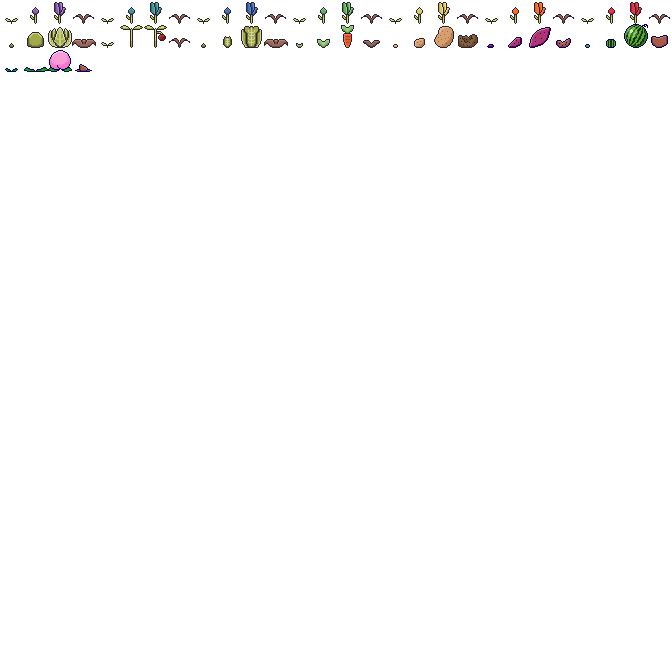
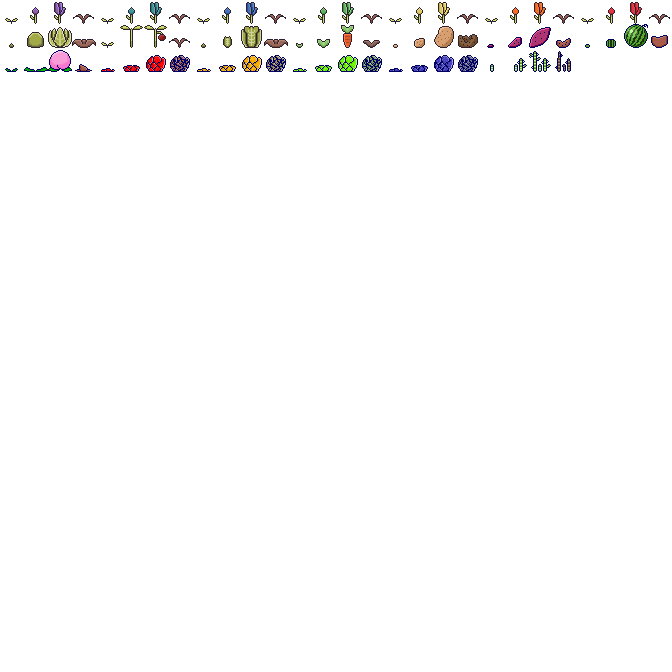
add new plants and finalize craftable furniture

diff --git a/src/App.js b/src/App.js
@@ -1145,6 +1145,8 @@ let App = {
                 z: furniture.z || App.constants.BACKGROUND_Z + 0.1,
                 def: furniture,
                 onDraw: (me) => {
+                    furnitureDef.onDraw?.(me);
+
                     if(lastY === me.y) return;
                     lastY = me.y;
                     me.z = App.constants.BACKGROUND_Z + 
@@ -2796,7 +2798,7 @@ let App = {
                 }
 
                 // some entries become randomly unavailable to buy for the day
-                if(++index && buyMode && !random(0, 1, dayId + (index * 256))){
+                if(++index && buyMode && !random(0, 1, (dayId * 365) + (index * 25600))){
                     continue;
                 }
 
@@ -3247,27 +3249,39 @@ let App = {
         },
         open_craftables_list: function(){
             let sliderInstance;
-            const {room_background: roomBackgroundDefs} = App.definitions;
+            const {
+                room_background: roomBackgroundDefs, 
+                accessories: accessoryDefs
+            } = App.definitions;
 
             const removeOneHarvestFromInventory = (name) => {
                 if(App.pet.inventory.harvests[name] > 0)
                     App.pet.inventory.harvests[name] -= 1;
             }
 
-            const getCraftableUIDef = (current, type) => ({
+            const getCraftableUIDef = (current, type, owned) => ({
                 isNew: !!current.isNew,
                 name: `
                     <img style="min-height: 64px" src="${App.checkResourceOverride(current.image)}"></img> 
                     ${current.name.toUpperCase()} 
                     <small>${type}</small>
-                    <div class="flex-center flex-dir-row"> ${App.getHarvestIcons(current.craftingRecipe, undefined, 'opacity-third')} </div> 
+                    <b class="flex-center flex-dir-row">
+                    ${
+                        owned ? 'OWNED'
+                            : App.getHarvestIcons(current.craftingRecipe, undefined, 'opacity-third')
+                    }
+                    </b> 
                     ${current.isNew ? App.getBadge() : ''}
                 `,
                 onclick: () => {
+                    if(owned) return App.displayPopup(`You already own the this ${type}!`);
+
                     const hasAllIngredients = current.craftingRecipe.every(ingredientName => App.pet.inventory.harvests[ingredientName]);
                     if(!hasAllIngredients) return App.displayPopup(`You cannot craft this ${type} due to missing ingredients`);
 
                     current.craftingRecipe.forEach(ingredient => removeOneHarvestFromInventory(ingredient));
+
+                    App.displayPopup(`Crafted x1 <b>${current.name}</b>!`);
 
                     switch(type){
                         case "room":
@@ -3276,7 +3290,11 @@ let App = {
                             App.scene.home.image = App.checkResourceOverride(current.image);
                             break;
                         case "furniture":
-                            // todo: implement
+                            App.ownedFurniture.push({
+                                id: current.id,
+                                x: '50%', y: '50%',
+                                isActive: false
+                            })
                             break;
                     }
                 }
@@ -3291,7 +3309,13 @@ let App = {
             // furniture
             const furniture = App.definitions.furniture
                 .filter(item => item.isCraftable)
-                .map(current => getCraftableUIDef(current, 'furniture'))
+                .map(current => getCraftableUIDef(current, 'furniture', !!App.ownedFurniture.find(f => f.id === current.id)))
+
+            // accessories
+            const accessories = Object.keys(accessoryDefs)
+                .map(name => ({...accessoryDefs[name], name}))
+                .filter(current => current.isCraftable)
+                .map(current => getCraftableUIDef(current, 'accessory'))
 
             const list = [
                 ...rooms,
@@ -5086,7 +5110,7 @@ let App = {
             ? `<div style="width: 1"><img style="width: 36px; outline: none" src="${image}"></img></div>`
             : `<c-sprite width="64" height="36" index="0" src="${image}"></c-sprite>`;
     },
-    getGenericCSprite: function(index, spritesheet, dimensions, className){
+    getGenericCSprite: function(index, spritesheet, dimensions, className, additional = ''){
         const size = dimensions.rows * dimensions.cellSize;
         return `<c-sprite 
             naturalWidth="${size}" 
@@ -5095,7 +5119,8 @@ let App = {
             height="${dimensions.cellSize}" 
             index="${(index - 1)}" 
             class="${className}"
-            src="${spritesheet}"></c-sprite>`;
+            src="${spritesheet}"
+            ${additional}></c-sprite>`;
     },
     getPersona: function(name, image){
         return `

diff --git a/src/Definitions.js b/src/Definitions.js
@@ -627,6 +627,12 @@ App.definitions = {
             price: 5,
             // wateredDuration: 0.5,
         },
+        // inedibles
+        "bamboo": {
+            sprite: 77,
+            price: 10,
+            inedible: true,
+        },
         // tulips
         "purple tulip": {
             sprite: 1,
@@ -661,6 +667,27 @@ App.definitions = {
         "red tulip": {
             sprite: 25,
             price: 5,
+            inedible: true,
+        },
+        // rocky ores
+        "tetrocana": {
+            sprite: 61,
+            price: 15,
+            inedible: true,
+        },
+        "lucrios": {
+            sprite: 65,
+            price: 15,
+            inedible: true,
+        },
+        "hephasto": {
+            sprite: 69,
+            price: 15,
+            inedible: true,
+        },
+        "kilmari": {
+            sprite: 73,
+            price: 15,
             inedible: true,
         },
     },
@@ -1009,7 +1036,7 @@ App.definitions = {
             id: 'bird_stand',
             isNew: true,
             isCraftable: true,
-            craftingRecipe: ['red tulip', 'blue tulip', 'purple tulip'],
+            craftingRecipe: ['kilmari', 'blue tulip', 'bamboo'],
         },
         {
             name: 'Collage Bucket',
@@ -1017,7 +1044,7 @@ App.definitions = {
             id: 'bucket_collage',
             isNew: true,
             isCraftable: true,
-            craftingRecipe: ['red tulip', 'blue tulip', 'purple tulip'],
+            craftingRecipe: ['cyan tulip', 'tetrocana', 'hephasto'],
         },
         {
             name: 'Sun Lamp',
@@ -1025,7 +1052,15 @@ App.definitions = {
             id: 'lamp_sun',
             isNew: true,
             isCraftable: true,
-            craftingRecipe: ['red tulip', 'watermelon', 'purple tulip'],
+            craftingRecipe: ['bamboo', 'lucrios', 'yellow tulip'],
+            onDraw: (me) => {
+                if(!App.darkOverlay.hidden){
+                    me.setImg('resources/img/furniture/lamp_sun_off.png')
+                } else {
+                    me.setImg('resources/img/furniture/lamp_sun.png')
+                }
+            }
+            
         },
         {
             name: 'Cloud Sofa',
@@ -1033,7 +1068,7 @@ App.definitions = {
             id: 'sofa_cloud',
             isNew: true,
             isCraftable: true,
-            craftingRecipe: ['red tulip', 'blue tulip', 'purple tulip'],
+            craftingRecipe: ['orange tulip', 'bamboo', 'purple tulip'],
         },
     ],
 

diff --git a/src/Plant.js b/src/Plant.js
@@ -102,7 +102,7 @@ class Plant {
         return App.getGenericCSprite(
             this.getDefinition().sprite + this.age, 
             App.constants.PLANT_SPRITESHEET, 
-            App.constants.PLANT_SPRITESHEET_DIMENSIONS
+            App.constants.PLANT_SPRITESHEET_DIMENSIONS,
         );
     }
     getObject(){}
@@ -121,7 +121,8 @@ class Plant {
             Plant.getDefinitionByName(plantName)?.sprite + age, 
             App.constants.PLANT_SPRITESHEET, 
             App.constants.PLANT_SPRITESHEET_DIMENSIONS,
-            className
+            className,
+            `title="${plantName.toUpperCase()}"`
         );
     }
     static getPackCSprite(plantName, age, className){
